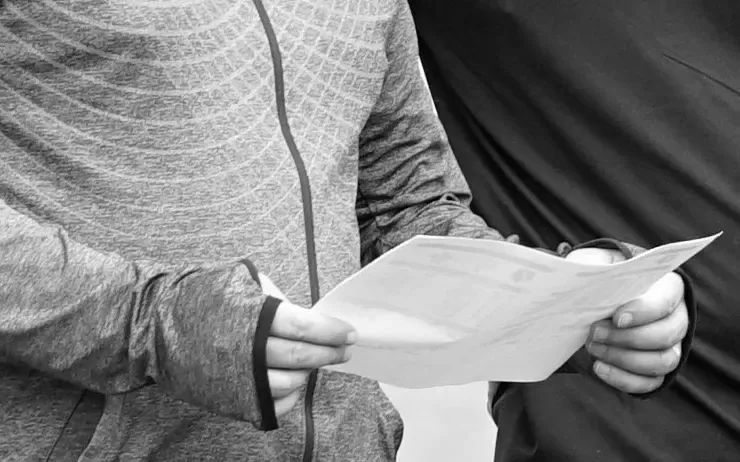
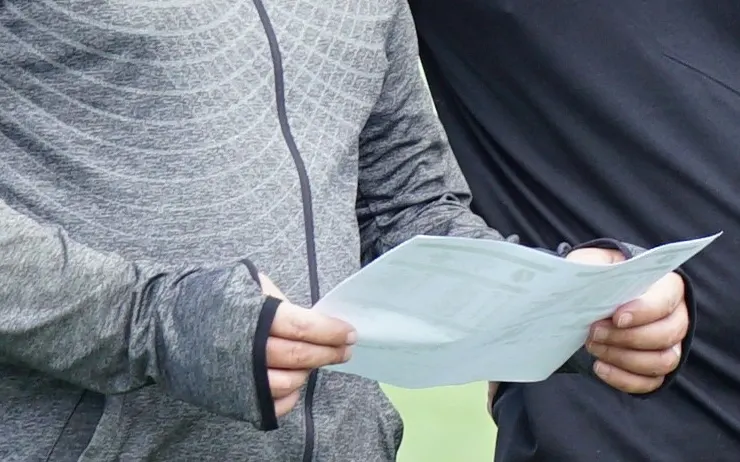
feat(photos): the goal net and the training sheet in colour again
On the feature cards the trophy squad stays black and white (faces); the goal net (Match
requests) and the hands on a training sheet (Coach assistant) are back in colour. Their tone is in
src/config/photos.ts and the test checks each file against it.

diff --git a/src/config/photos.ts b/src/config/photos.ts
@@ -1,8 +1,8 @@
 /**
  * Every photograph on the site: whether a face is visible, and its tone. The rule (WEBSITE 17): a
- * photo with a visible face is black and white. A photo with no face keeps its colour, with one
- * exception (WEBSITE 19): every photo on a "What you get" card is black and white, so the cards
- * read as one set (a blue sky behind the goal net clashed with the site). tests/unit/photos.test.ts
+ * photo with a visible face is black and white. A photo with no face has the tone given here: on
+ * the "What you get" cards most are black and white (WEBSITE 19), the goal net and the training
+ * sheet in colour (WEBSITE 20). tests/unit/photos.test.ts
  * checks each file against this list; credits are in docs/PHOTO-CREDITS.md. App screens are not
  * photos (src/config/app-shots.ts): they stay as the app shows them.
  */
@@ -30,15 +30,15 @@ export const photos: Photo[] = [
     tone: 'grey',
     what: 'a squad lifting a trophy, every mark blurred',
   },
-  // The feature cards: black and white, face or not
+  // The feature cards: black and white, but for the goal net and the training sheet
   {
     file: 'public/features/calendar.webp',
     faces: false,
-    tone: 'grey',
+    tone: 'colour',
     what: 'legs and boots at a cone',
   },
   { file: 'public/features/whiteboard.webp', faces: false, tone: 'grey', what: 'a tactics board' },
-  { file: 'public/features/matchRequests.webp', faces: false, tone: 'grey', what: 'a goal net' },
+  { file: 'public/features/matchRequests.webp', faces: false, tone: 'colour', what: 'a goal net' },
   {
     file: 'public/features/assistant.webp',
     faces: false,

diff --git a/docs/PHOTO-CREDITS.md b/docs/PHOTO-CREDITS.md
@@ -25,14 +25,14 @@ photo's page.
 | `public/features/calendar.webp`      | Alliance Football Club             | https://unsplash.com/photos/g8cK31aYH3E | 16:10, below the shorts (their club name) and away from the child: legs, boots, a cone, 1200 px, black and white                                                                                          |
 | `public/community/players.webp`      | Photo by Danylo Suprun on Unsplash | 5CBdeiqh4mI                             | 4:3, the lower half, 960 px, colour                                                                                                                                                                       |
 | `public/footer/pitch.webp`           | Photo by Omar Ramadan on Unsplash  | htGM-eEzsdk                             | the turf band only (no faces), 1600 px, colour                                                                                                                                                            |
-| `public/features/matchRequests.webp` | Jerome                             | https://unsplash.com/photos/nDHp2Z4rCHw | 16:10, the net against the sky, 1200 px, black and white (the Match requests card)                                                                                                                        |
+| `public/features/matchRequests.webp` | Jerome                             | https://unsplash.com/photos/nDHp2Z4rCHw | 16:10, the net against the sky, 1200 px, colour (the Match requests card)                                                                                                                                 |
 | `public/features/tournaments.webp`   | Sammy Swae                         | https://unsplash.com/photos/cneBYhGBUtM | 16:10, the squad and the trophy, 1200 px, black and white; every mark under a soft round blur (the arch's tournament name and logos, the trophy's plate, the sponsor and crests on the shirts and shorts) |
-| `public/features/assistant.webp`     | Jeffrey F Lin                      | https://unsplash.com/photos/pSHpFB5WNUE | 16:10, the training sheet in two hands only (no faces, no logos), 740 px, black and white                                                                                                                 |
+| `public/features/assistant.webp`     | Jeffrey F Lin                      | https://unsplash.com/photos/pSHpFB5WNUE | 16:10, the training sheet in two hands only (no faces, no logos), 740 px, colour                                                                                                                          |
 
 The colour rule (WEBSITE 17, WEBSITE 19): a photo where a face is visible is black and white, in
 the file itself. A photo with no visible face (from behind, legs, boots, the ball, turf, cones, a
-goal, a net, equipment) stays in colour, except on the "What you get" cards, where every photo is
-black and white so the cards read as one set. `src/config/photos.ts` lists every photo with
+goal, a net, equipment) has its own tone: in colour, except on the "What you get" cards, where most
+are black and white (WEBSITE 19) and the goal net and the training sheet are in colour (WEBSITE 20). `src/config/photos.ts` lists every photo with
 `faces` and `tone` (`grey` or `colour`), and `tests/unit/photos.test.ts` checks each file against
 it. App screens are not photos and stay as the app shows them. Every file is under 120 KB and
 loads lazily. The app's own screens are listed under "App screens (WEBSITE 18)" below. The

diff --git a/DESIGN.md b/DESIGN.md
@@ -389,8 +389,8 @@ screen readers.
   left.
 - Show real app screens and real, licensed photographs, credited in `docs/PHOTO-CREDITS.md`.
 - Photos with a visible face are black and white; photos with no face (from behind, legs, the
-  ball, turf, cones, a goal, equipment) stay in colour, except on the feature cards, which are all
-  black and white (`src/config/photos.ts`, `faces` and `tone`, checked by
+  ball, turf, cones, a goal, equipment) keep their own tone: on the feature cards most are black and
+  white, the goal net and the training sheet in colour (`src/config/photos.ts`, `faces` and `tone`, checked by
   `tests/unit/photos.test.ts`); app screens stay as the app shows them, with an "Example" tag
   where they show sample data. Any mark on a stock photo (a club's or a tournament's name, a
   sponsor, a league patch) goes under a soft round blur; makers' logos on boots and balls stay.
